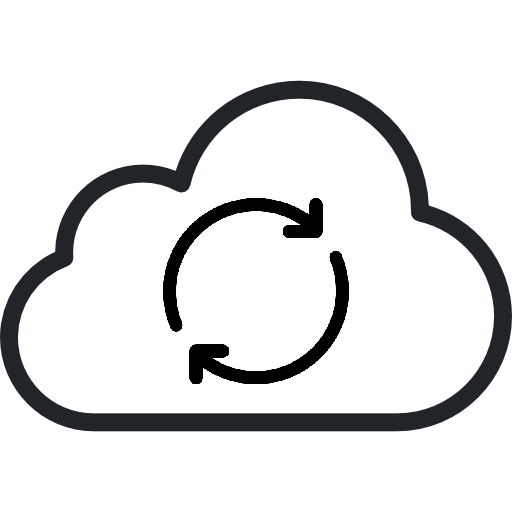
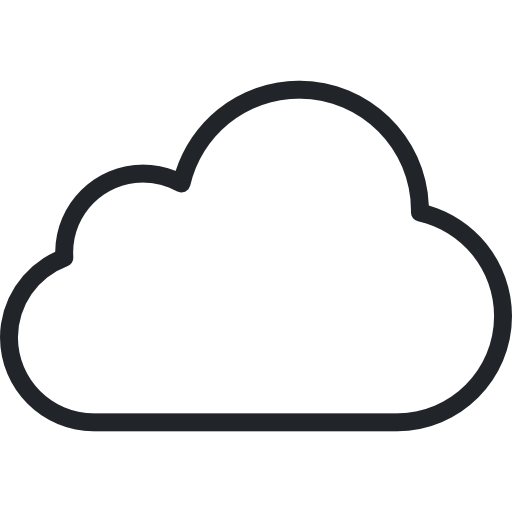
chore: added other two states to sync widget

Changed region(s): [[0.3125, 0.375, 0.6875, 0.75]]

diff --git a/packages/desktop-app/src/app/components/sync-pro-widget/sync-pro-widget.component.ts b/packages/desktop-app/src/app/components/sync-pro-widget/sync-pro-widget.component.ts
@@ -1,9 +1,9 @@
 import { Component, OnDestroy, OnInit } from "@angular/core";
 import { Subscription } from "rxjs";
 import { AppProviderService } from "../../services/app-provider.service";
-import { User } from "../../leapp-team-core/user/user";
 import { BsModalService } from "ngx-bootstrap/modal";
 import { OptionsDialogComponent } from "../dialogs/options-dialog/options-dialog.component";
+import { WorkspaceState } from "../../services/team-service";
 
 @Component({
   selector: "app-sync-pro-widget",
@@ -12,6 +12,10 @@ import { OptionsDialogComponent } from "../dialogs/options-dialog/options-dialog
 })
 export class SyncProWidgetComponent implements OnInit, OnDestroy {
   isLoggedAsPro = false;
+  isFailed = false;
+  isProgress = false;
+
+  isOpenFailed = false;
   isOpen = false;
 
   private subscription: Subscription;
@@ -20,9 +24,10 @@ export class SyncProWidgetComponent implements OnInit, OnDestroy {
 
   ngOnInit(): void {
     this.isOpen = false;
+    this.isOpenFailed = false;
     this.isLoggedAsPro = false;
-    this.subscription = this.appProviderService.teamService.signedInUserState.subscribe((userState: User) => {
-      this.isLoggedAsPro = userState !== null && userState?.role === "pro";
+    this.subscription = this.appProviderService.teamService.workspacesState.subscribe((workspacesState: WorkspaceState[]) => {
+      this.isLoggedAsPro = !!workspacesState.find((wState) => wState.type === "pro");
     });
   }
 
@@ -34,4 +39,6 @@ export class SyncProWidgetComponent implements OnInit, OnDestroy {
     this.isOpen = false;
     this.bsModalService.show(OptionsDialogComponent, { animated: false, class: "option-modal", initialState: { selectedIndex: 6 } });
   }
+
+  resyncAll(): void {}
 }

diff --git a/packages/desktop-app/src/app/components/sync-pro-widget/sync-pro-widget.component.html b/packages/desktop-app/src/app/components/sync-pro-widget/sync-pro-widget.component.html
@@ -1,11 +1,21 @@
 <hr>
 <section>
+  <span *ngIf="!isLoggedAsPro" class="unsync"><img src="assets/images/unsync.png" alt="" title=""> Sync disabled <i class="fa fa-info-circle" (click)="isOpen = !isOpen"></i></span>
   <span *ngIf="isLoggedAsPro" class="sync"><img src="assets/images/sync.png" alt="" title=""> Sync enabled</span>
-  <span *ngIf="!isLoggedAsPro" class="unsync"><img src="assets/images/unsynk.png" alt="" title=""> Sync disabled <i class="fa fa-info-circle" (click)="isOpen = !isOpen"></i></span>
+  <span *ngIf="isLoggedAsPro && isFailed" class="sync-failed"><img src="assets/images/syncfailed.png" alt="" title=""> Sync failed <i class="fa fa-info-triangle" (click)="isOpenFailed = !isOpenFailed"></i></span>
+  <span *ngIf="isLoggedAsPro && isProgress" class="sync-progress"><img src="assets/images/syncprogress.png" alt="" title=""> Sync in progress</span>
+
+
   <div class="html-tooltip {{isOpen ? '': 'hide'}}">
     <span>You need to Upgrade to Pro Edition to enable syncing on the Cloud</span>
     <button class="btn btn-primary" (click)="goToUpgrade();">Upgrade</button>
   </div>
+
+  <div class="html-tooltip {{isOpenFailed ? '': 'hide'}}">
+    <span>We had a problem syncing your workspace online, please retry from here</span>
+    <button class="btn btn-primary" (click)="resyncAll();">Sync all</button>
+  </div>
+
 </section>
 
 

diff --git a/packages/desktop-app/src/app/components/sync-pro-widget/sync-pro-widget.component.scss b/packages/desktop-app/src/app/components/sync-pro-widget/sync-pro-widget.component.scss
@@ -5,10 +5,10 @@ span {
   display: inline-block;
   width: 100%;
   font-weight: normal;
-  font-size: 12px;
+  font-size: 14px;
 }
 section {
-  padding: 0 10px;
+  padding: 10px 15px;
   margin: 0;
   display: flex;
   flex-direction: row;
